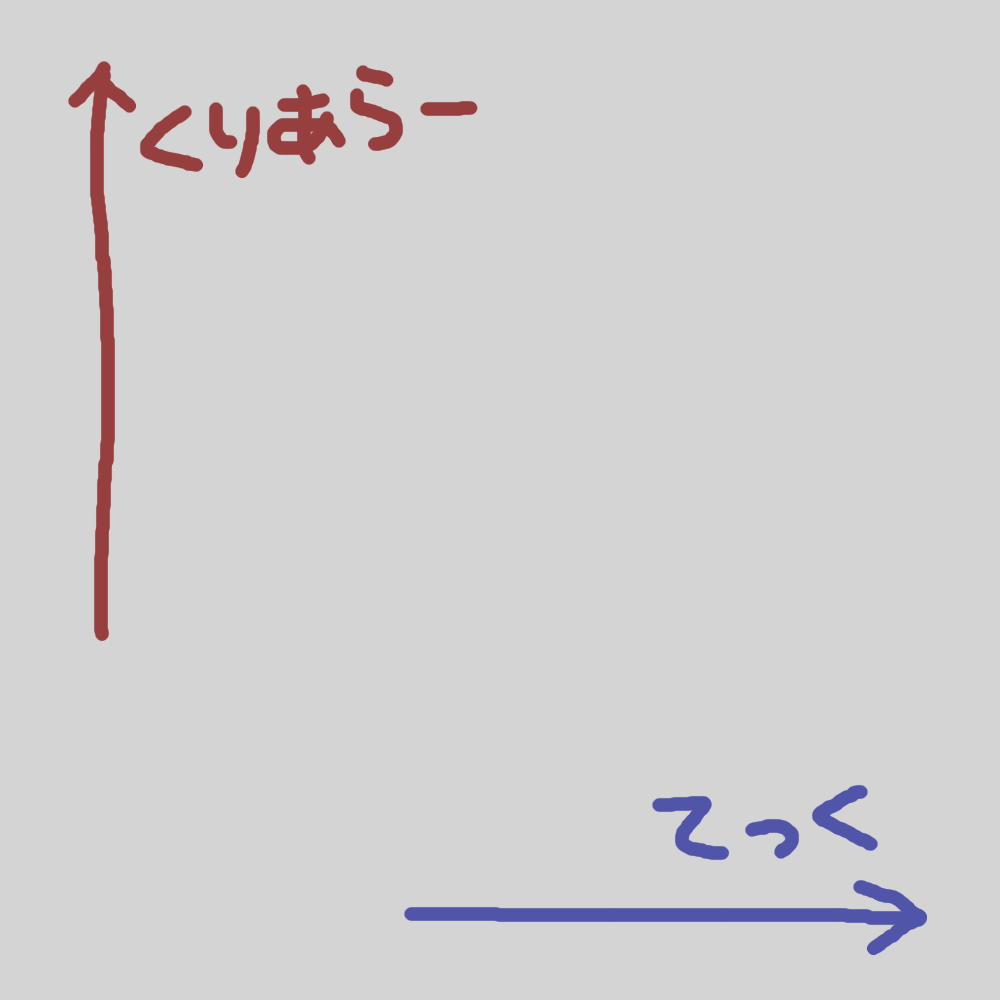
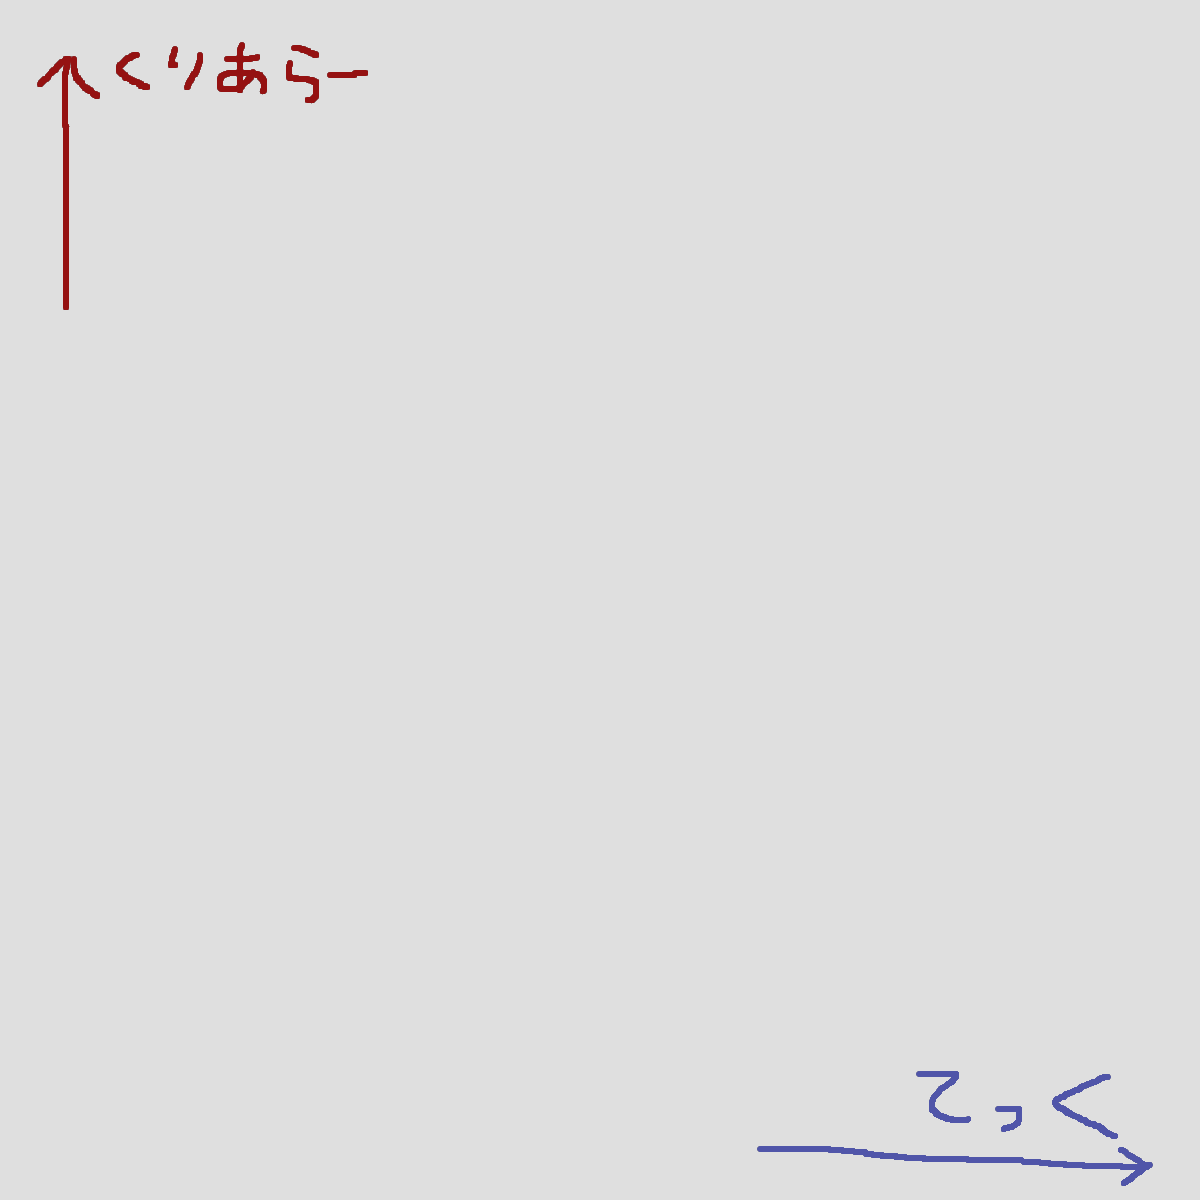
matrix

Changed region(s): [[0.031, 0.031, 0.496, 0.651], [0.403, 0.775, 0.961, 0.992], [0.651, 0.775, 0.744, 0.868]]

diff --git a/templates/player_matrix.html b/templates/player_matrix.html
@@ -15,5 +15,5 @@
                         border: {% if player == user.player %}3px solid orange{% else %}none{% endif %};">
             {% if player.sid != '' %}</a>{% endif %}
         {% endfor %}
-        <div style="height:1300px;margin-left:200px"><img src="{% static 'matrix_background.png' %}" /></div>
+        <div style="height:1300px;margin-left:50px;margin-top:150px"><img src="{% static 'matrix_background.png' %}" /></div>
     {% endblock content %}
